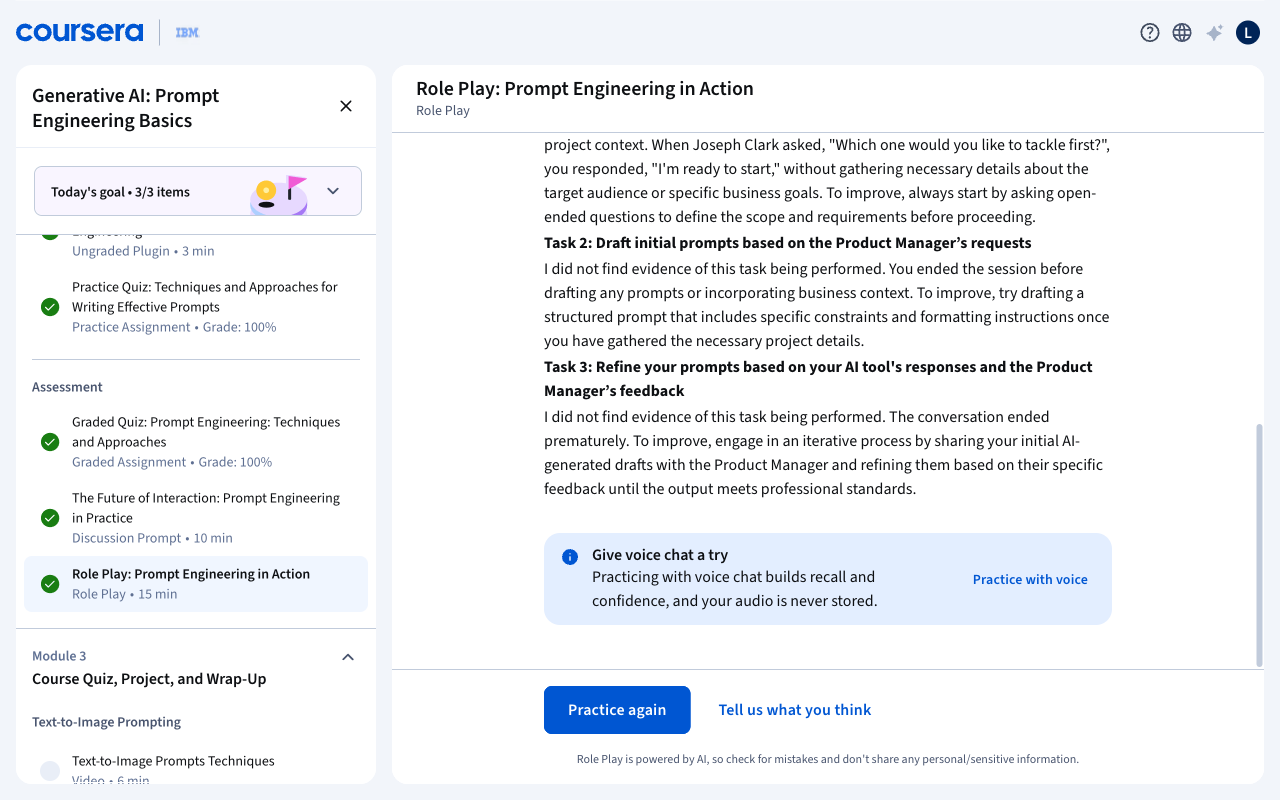
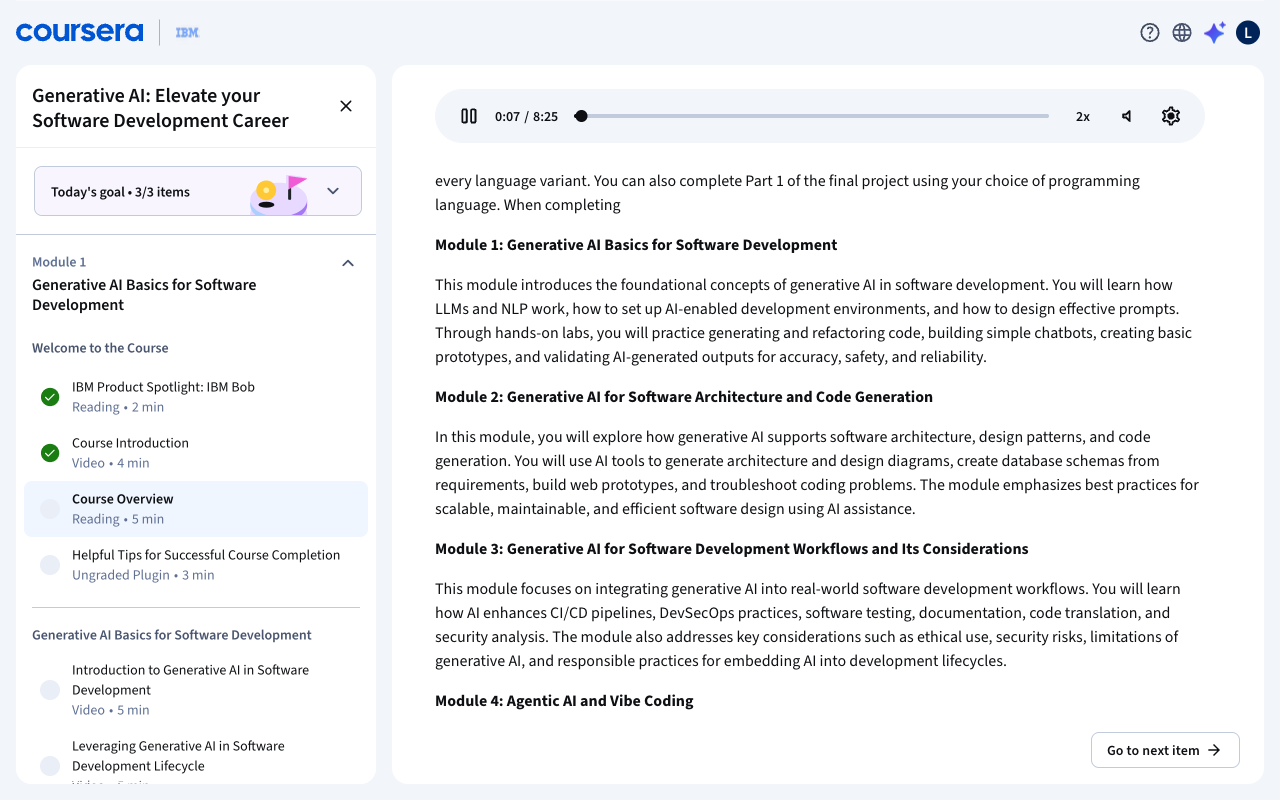
refactor: improve next item button selection robustness and increase retry attempts

diff --git a/tests/test_navigator.py b/tests/test_navigator.py
@@ -43,10 +43,11 @@ def test_click_next_item_advances() -> None:
     """Verify click_next_item locates progression button and navigates href if url unchanged."""
     page, cfg, btn = MagicMock(), Settings(), MagicMock()
     page.url = "https://www.coursera.org/learn/quiz"
-    btn.first.is_visible.return_value = True
-    btn.first.get_attribute.return_value = "/learn/next"
-    page.locator.side_effect = lambda s: MagicMock(first=MagicMock(is_visible=MagicMock(return_value=False))) if "Reviewing" in s else btn
+    btn.is_visible.return_value = True
+    btn.get_attribute.return_value = "/learn/next"
+    loc = MagicMock(all=MagicMock(return_value=[btn]))
+    page.locator.side_effect = lambda s: MagicMock(first=MagicMock(is_visible=MagicMock(return_value=False))) if "Reviewing" in s else loc
     with patch("coursera_automation.items.navigation.navigator.dismiss_dialogs"):
         assert click_next_item(page, cfg) is True
-    btn.first.click.assert_called_once()
+    btn.click.assert_called_once()
     page.goto.assert_called_once_with("https://www.coursera.org/learn/next", wait_until="domcontentloaded")

diff --git a/coursera_automation/items/navigation/navigator.py b/coursera_automation/items/navigation/navigator.py
@@ -35,12 +35,13 @@ def click_resume(page: Page, cfg: Settings) -> None:
 def click_next_item(page: Page, cfg: Settings) -> bool:
     """Locate and click 'Next item' or navigate directly via href."""
     orig = page.url
-    for _ in range(5):
+    for _ in range(8):
         dismiss_dialogs(page)
         if page.locator(':text("Reviewing your submission"), :text("hang tight")').first.is_visible(timeout=300):
             page.wait_for_timeout(3000)
             continue
-        if (btn := page.locator(NEXT_SEL).first).is_visible(timeout=1000):
+        locs = page.locator(NEXT_SEL)
+        if (btn := next((l for l in locs.all() if l.is_visible()), None) or (locs.first if locs.first.is_visible() else None)):
             logger.info("Advancing via next item button...")
             href = btn.get_attribute("href")
             try:
